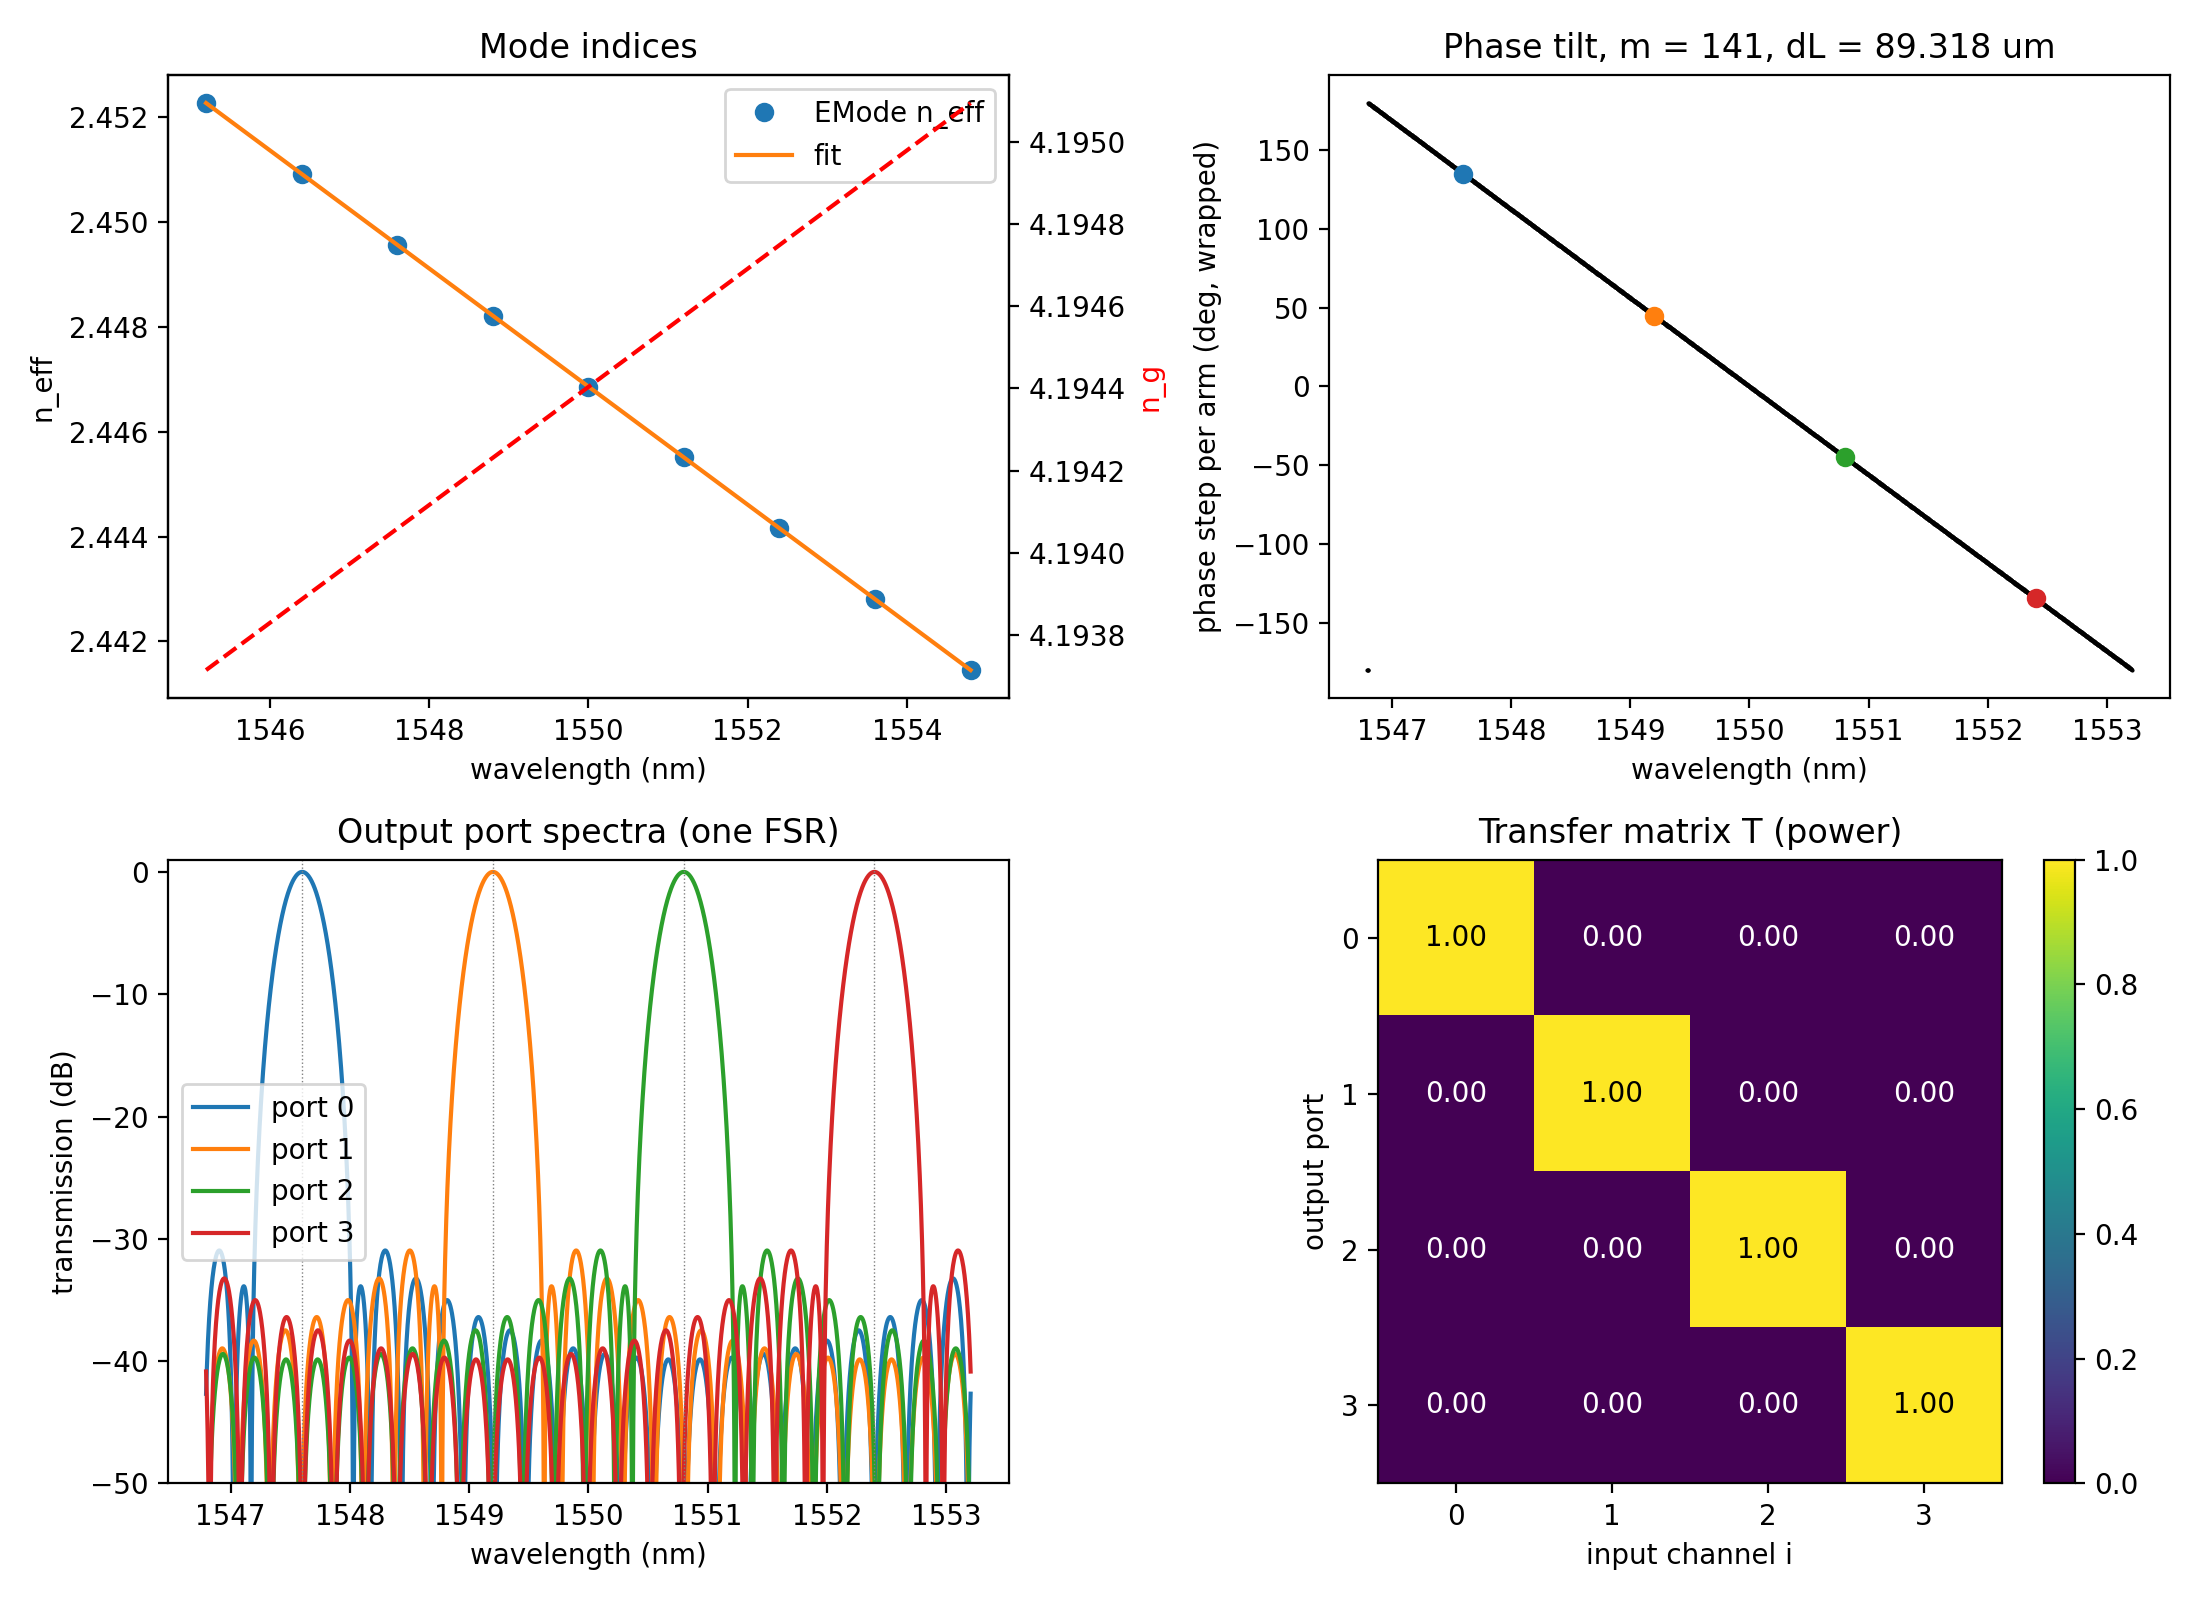
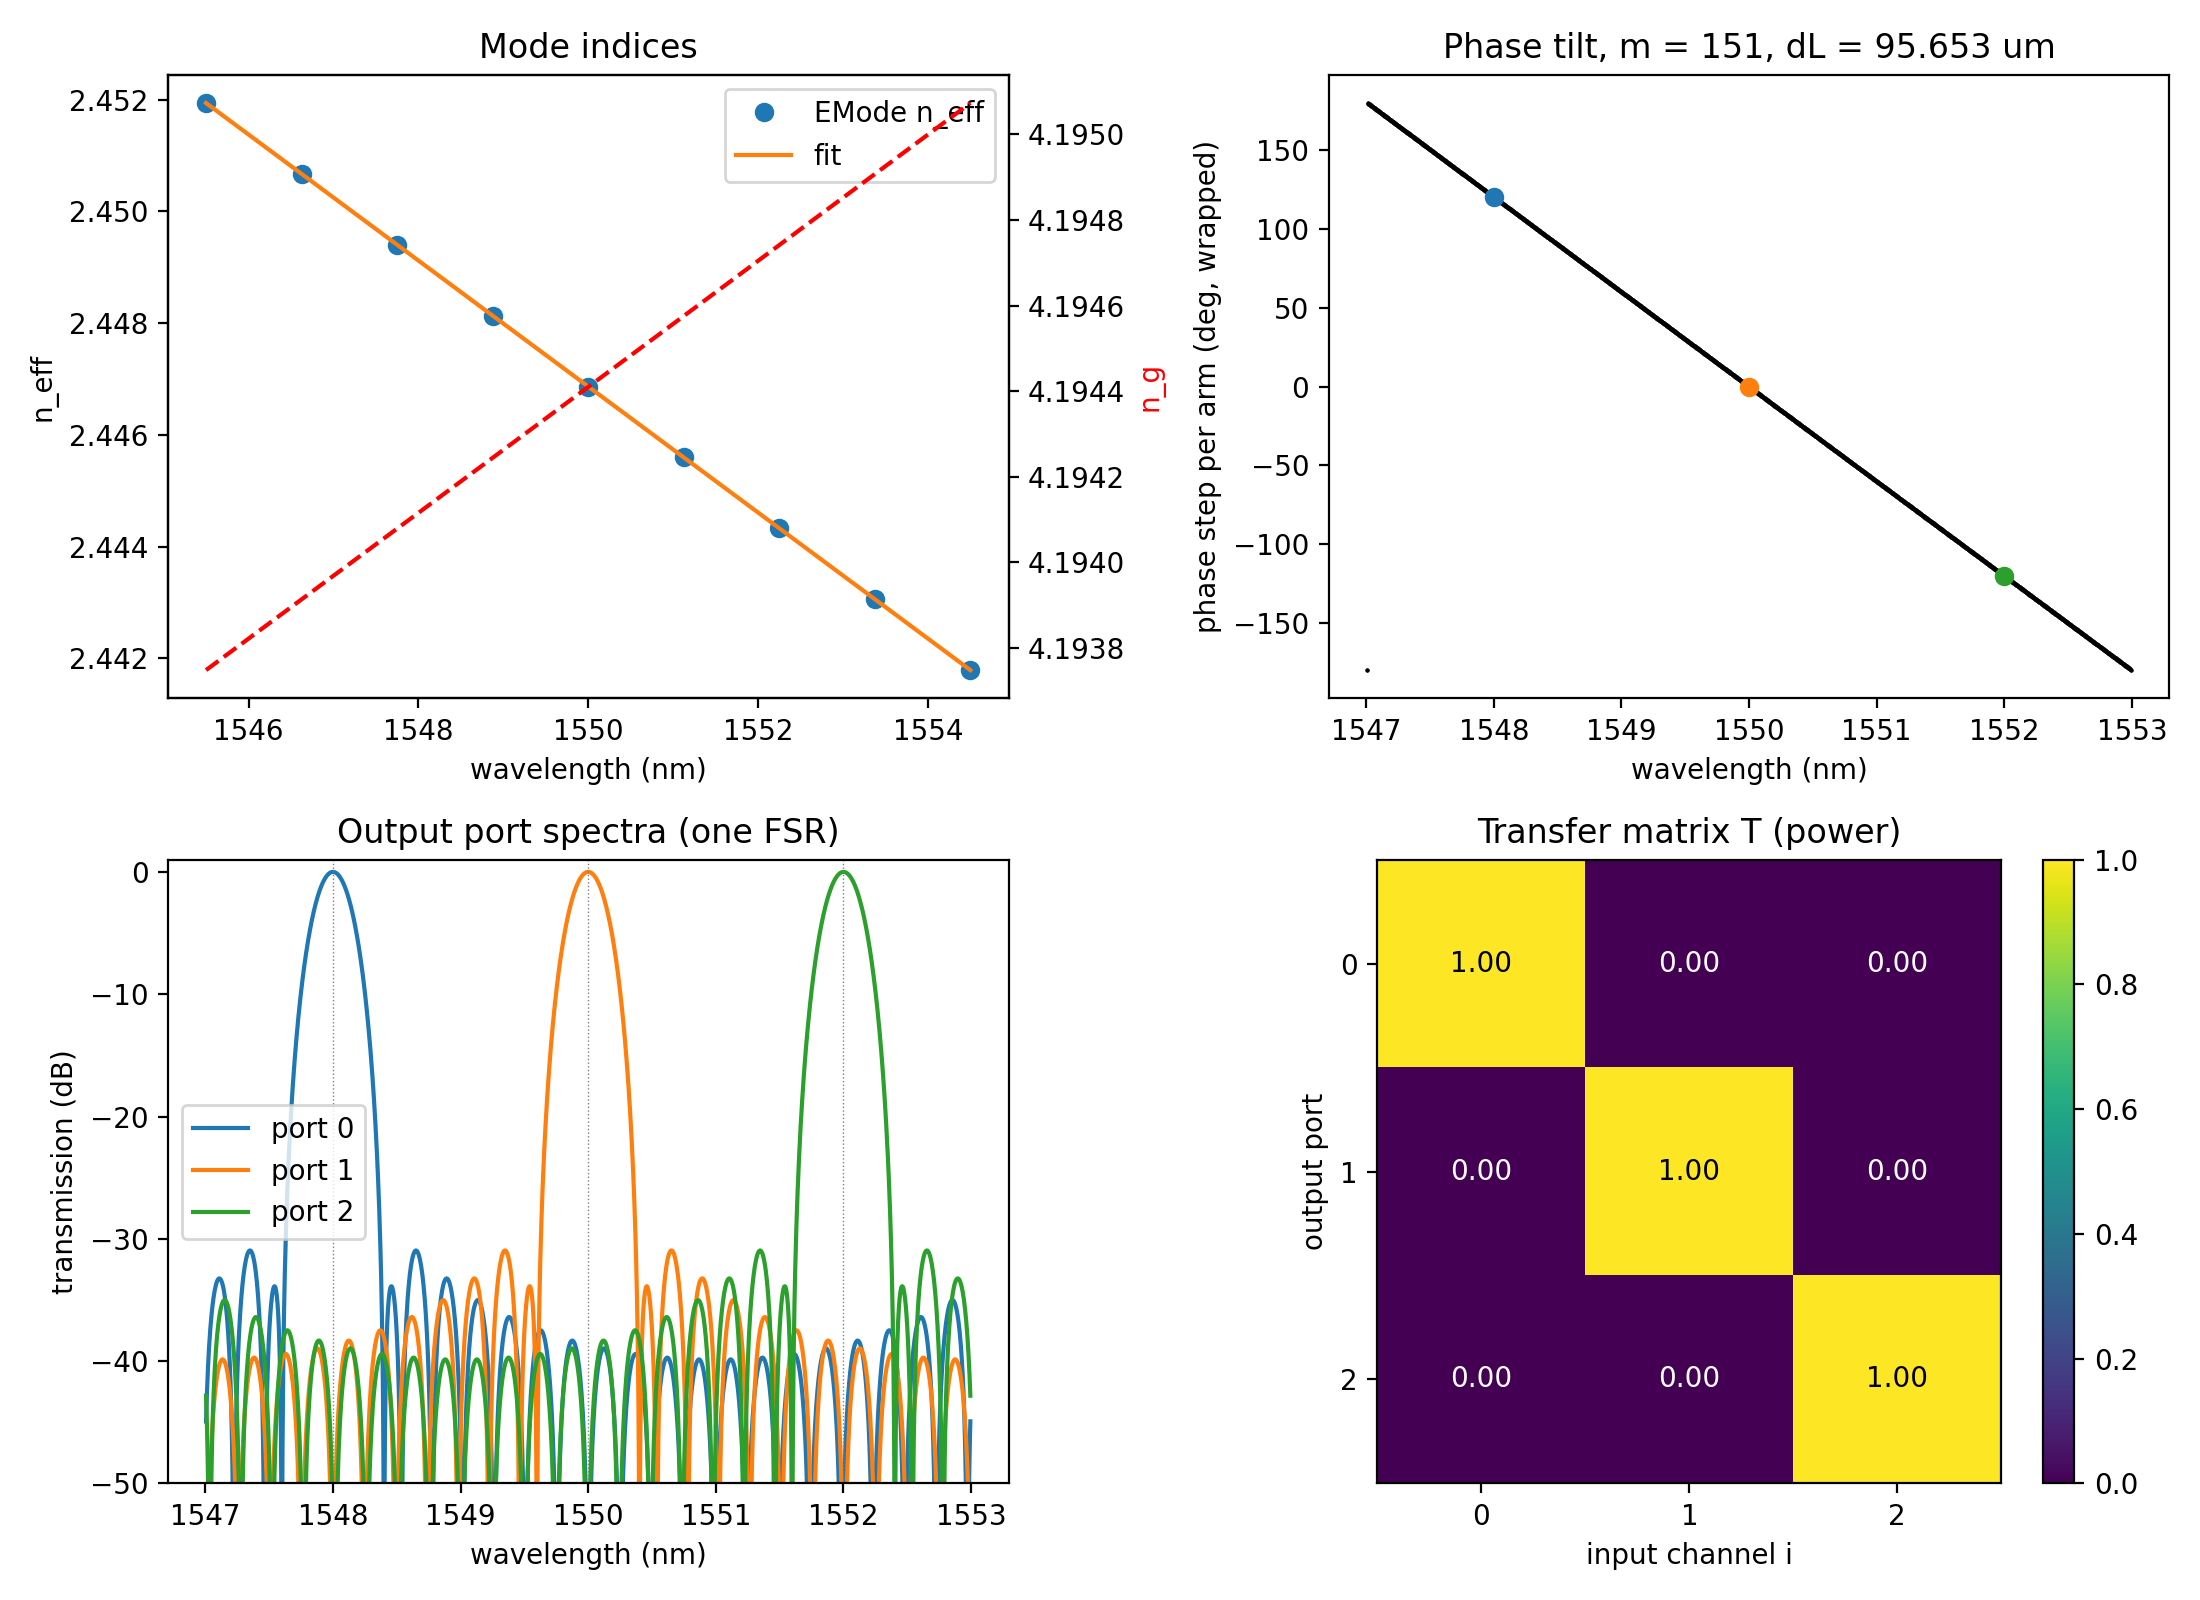
Ïmproved the code, with minor changes

diff --git a/Photonics/DesignStudy.py b/Photonics/DesignStudy.py
@@ -30,9 +30,9 @@ CFG = {
     "dx": 10, "dy": 10,               # mesh resolution
 
     # --- channels (one per laser in the array) ---
-    "n_channels": 4,               # number of wavelength channels / output ports
+    "n_channels": 3,               # number of wavelength channels / output ports
     "lambda_center": 1550.0,       # nm
-    "channel_spacing": 1.6,        # nm (~200 GHz)
+    "channel_spacing": 2,        # nm (~200 GHz)
 
     # --- AWG ---
     "order": None,                 # diffraction order m; None = choose so FSR = N * spacing
